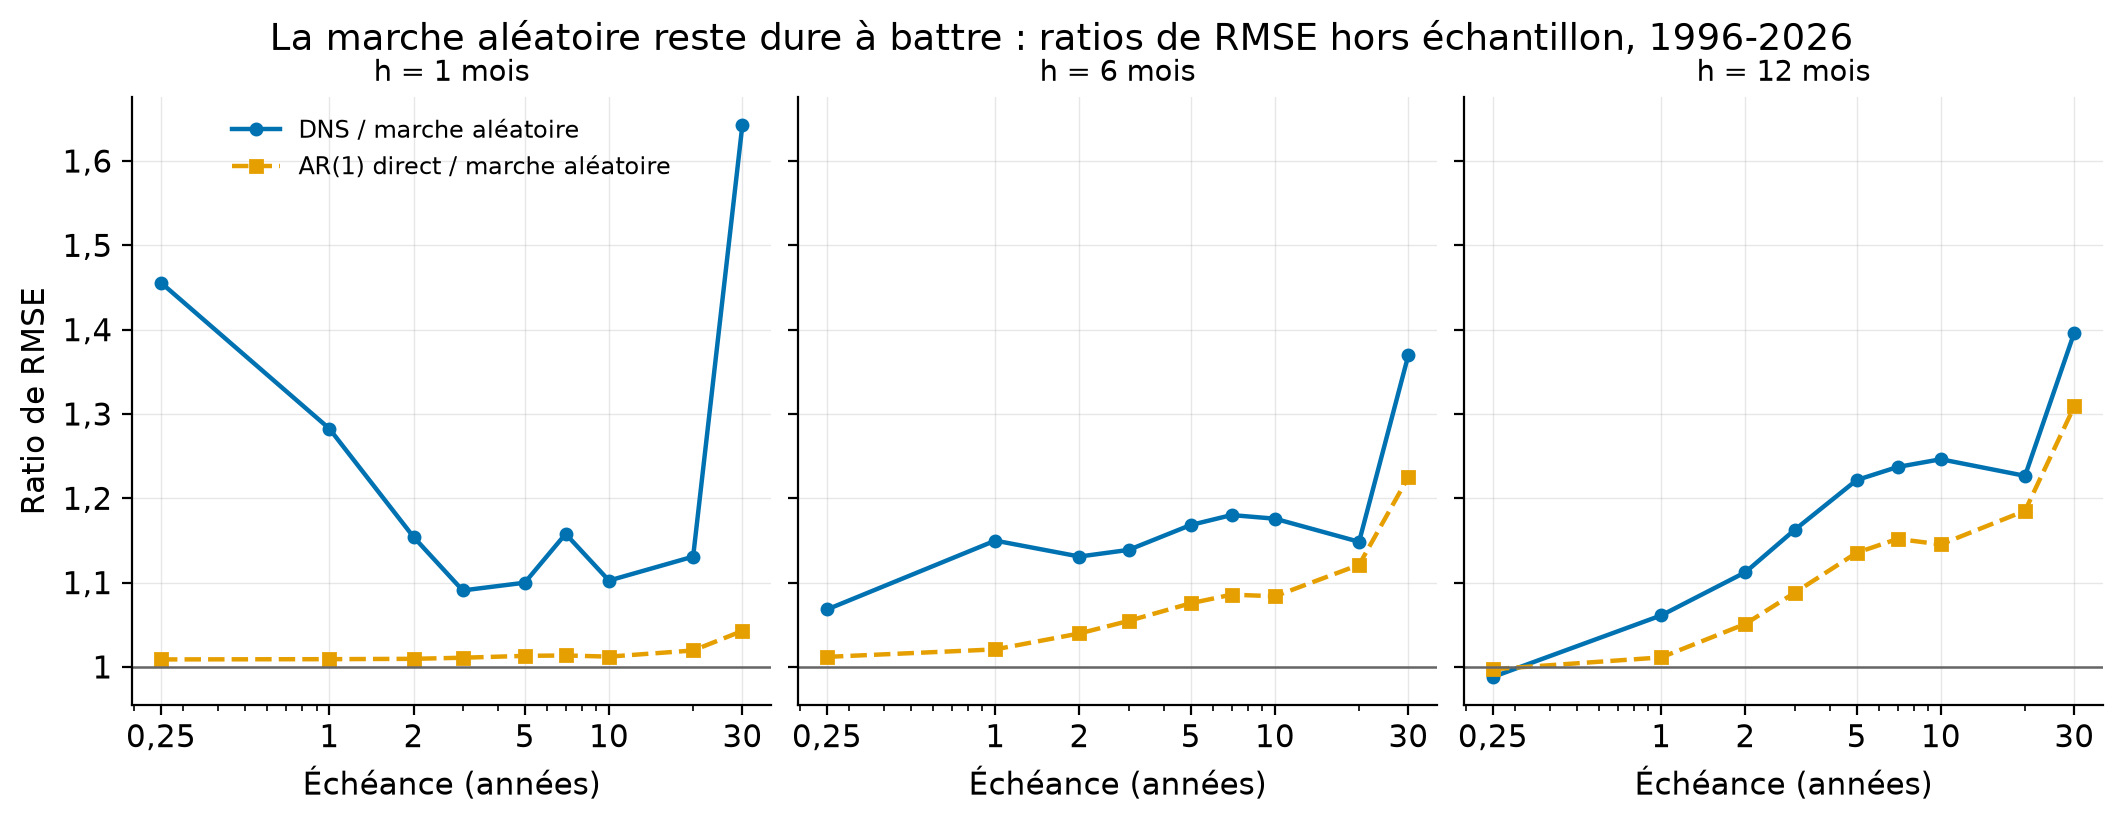
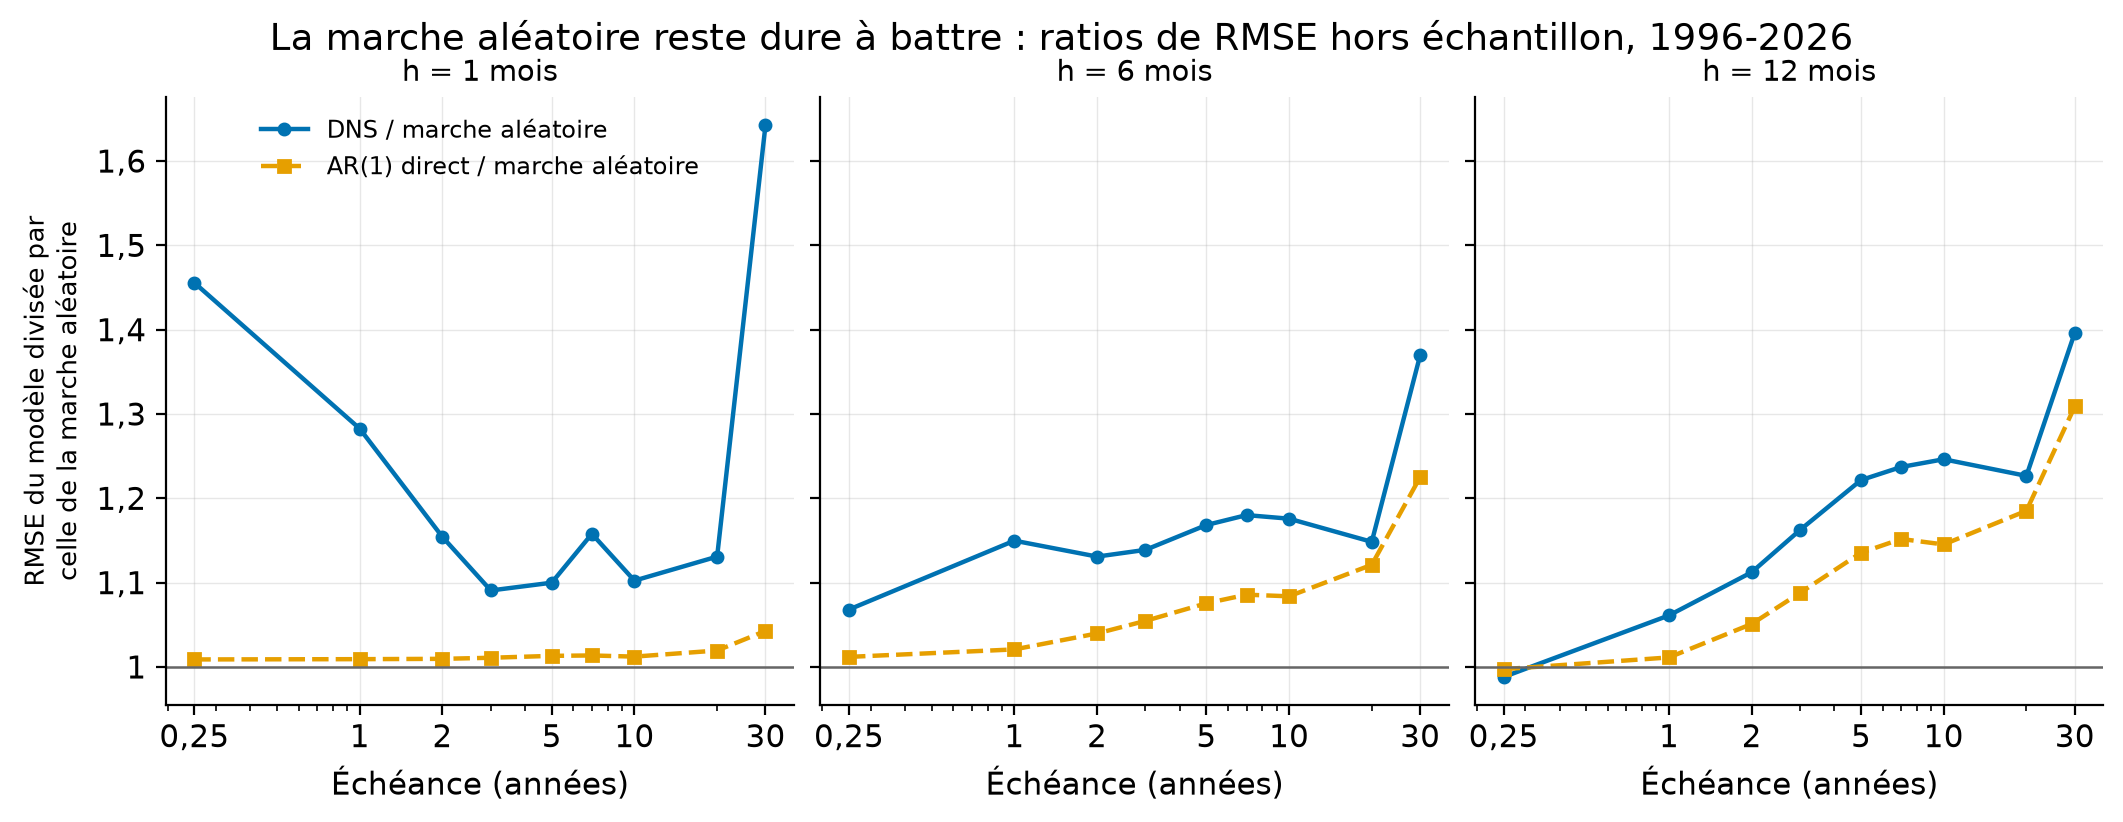
Audit : la figure h = 18 annonçait « à 12 mois »
fig_recession codait l'horizon en dur dans l'ordonnée et le sous-titre alors que la même
fonction produit les deux figures : deux courbes différentes portaient une étiquette
identique. L'horizon est un paramètre.

Le gap de revenu net d'intérêts était positif par construction : les dépôts à vue
portaient une refixation de 30 mois, la valeur de leur duration COMPORTEMENTALE, si bien
qu'aucun passif n'entrait dans la fenêtre de douze mois. delta_nii_12m prend un bêta de
dépôt déclaré et publie les trois hypothèses : +0,558 G$ à bêta nul, +0,158 à 0,5,
-0,242 à 1. Le signe tient au bêta, pas à la structure d'échéances.

Le titre des facteurs affirmait un niveau final de 3 % là où la série finit à 4,3 % : il
est déduit des données. beta 2 est le taux court MOINS le taux long, donc l'opposé de la
pente tracée plus bas dans le même dépôt : l'axe le dit. Delta-EVE devient « variation de
la valeur économique des fonds propres », les scénarios réglementaires portent leur nom
français accentué, et le ratio de RMSE dit son numérateur et son dénominateur.

diff --git a/src/ycc/figures.py b/src/ycc/figures.py
@@ -10,6 +10,12 @@ import pandas as pd
 
 OKABE_ITO = ["#0072B2", "#E69F00", "#009E73", "#D55E00", "#CC79A7", "#56B4E9", "#F0E442", "#000000"]
 
+NOMS_SCENARIOS = {
+    "parallele_hausse": "Hausse parallèle", "parallele_baisse": "Baisse parallèle",
+    "pentification": "Pentification", "aplatissement": "Aplatissement",
+    "court_hausse": "Hausse du court terme", "court_baisse": "Baisse du court terme",
+}
+
 
 def use_style():
     import matplotlib as mpl
@@ -39,15 +45,23 @@ def fig_factors(betas: pd.DataFrame, episodes, dest: Path) -> None:
     fr = use_style()
     fig, axes = plt.subplots(3, 1, figsize=(9, 7.5), sharex=True)
     ts = betas.index.to_timestamp()
-    labels = [("niveau", "Niveau (beta 1, %)"), ("pente", "Pente (beta 2, %)"),
-              ("courbure", "Courbure (beta 3, %)")]
+    # β2 charge (1 - exp(-λτ))/(λτ), qui vaut 1 à l'échéance nulle et 0 à l'infini : β2 est donc le
+    # taux court MOINS le taux long, l'opposé de la pente 10 ans moins 3 mois tracée plus bas. Le
+    # dire dans l'axe évite de lire deux figures du même dépôt avec deux conventions de signe.
+    labels = [("niveau", "Niveau β1 (%)"),
+              ("pente", "Pente β2, court moins long\n(points de pourcentage)"),
+              ("courbure", "Courbure β3\n(points de pourcentage)")]
     for ax, (col, lab), color in zip(axes, labels, OKABE_ITO, strict=False):
         ax.plot(ts, betas[col], color=color)
         ax.set_ylabel(lab, fontsize=9.5)
         ax.yaxis.set_major_formatter(fr)
         _shade(ax, episodes, betas.index)
     axes[1].axhline(0, color="0.5", linewidth=0.8)
-    axes[0].set_title("Trois nombres résument la courbe canadienne : le niveau tombe de 10 % à 3 % en quarante ans")
+    niveau = betas["niveau"]
+    axes[0].set_title(f"Trois nombres résument la courbe canadienne\nLe niveau tombe de "
+                      f"{niveau.iloc[0]:.1f} % en {betas.index[0]} à {niveau.min():.1f} % en "
+                      f"{niveau.idxmin()}, puis remonte à {niveau.iloc[-1]:.1f} %".replace(".", ","),
+                      fontsize=11)
     fig.savefig(dest)
     plt.close(fig)
 
@@ -88,14 +102,15 @@ def fig_forecast(rmse: pd.DataFrame, dest: Path) -> None:
         ax.set_title(f"h = {h} mois", fontsize=10.5)
         ax.set_xlabel("Échéance (années)")
         ax.yaxis.set_major_formatter(fr)
-    axes[0].set_ylabel("Ratio de RMSE")
+    axes[0].set_ylabel("RMSE du modèle divisée par\ncelle de la marche aléatoire", fontsize=9.5)
     axes[0].legend(fontsize=8.5, loc="upper center")
     fig.suptitle("La marche aléatoire reste dure à battre : ratios de RMSE hors échantillon, 1996-2026", y=1.04)
     fig.savefig(dest, bbox_inches="tight")
     plt.close(fig)
 
 
-def fig_recession(feats: pd.DataFrame, probs: dict[str, pd.Series], episodes, dest: Path) -> None:
+def fig_recession(feats: pd.DataFrame, probs: dict[str, pd.Series], episodes, dest: Path,
+                  horizon: int = 12) -> None:
     """En haut les pentes, en bas les probabilités hors échantillon ; 2022-23 est le test décisif."""
     fr = use_style()
     fig, (ax1, ax2) = plt.subplots(2, 1, figsize=(9.5, 6.6), sharex=True,
@@ -104,7 +119,7 @@ def fig_recession(feats: pd.DataFrame, probs: dict[str, pd.Series], episodes, de
     ax1.plot(ts, feats["pente_brute"], color=OKABE_ITO[0], label="Pente brute (10 ans - 3 mois)")
     ax1.plot(ts, feats["pente_nette"], color=OKABE_ITO[3], label="Pente nette de prime de terme")
     ax1.axhline(0, color="0.4", linewidth=0.9)
-    ax1.set_ylabel("Points de %")
+    ax1.set_ylabel("Pente (points de pourcentage)")
     ax1.yaxis.set_major_formatter(fr)
     _shade(ax1, episodes, feats.index)
     ax1.legend(fontsize=9, loc="upper right")
@@ -112,12 +127,13 @@ def fig_recession(feats: pd.DataFrame, probs: dict[str, pd.Series], episodes, de
 
     for (name, p), color in zip(probs.items(), OKABE_ITO, strict=False):
         ax2.plot(p.index.to_timestamp(), p.to_numpy(), color=color, label=name)
-    ax2.set_ylabel("Prob. de récession à 12 mois")
+    ax2.set_ylabel(f"Probabilité de récession\ndans les {horizon} mois", fontsize=9.5)
     ax2.set_ylim(0, 1)
     ax2.yaxis.set_major_formatter(fr)
     _shade(ax2, episodes, feats.index)
     ax2.legend(fontsize=9, loc="upper right")
-    ax2.set_title("Probit estimé en fenêtre expansive, cible jamais observée avant t + 12", fontsize=10.5)
+    ax2.set_title(f"Probit estimé en fenêtre expansive, cible jamais observée avant t + {horizon}",
+                  fontsize=10.5)
     fig.savefig(dest)
     plt.close(fig)
 
@@ -131,7 +147,9 @@ def fig_alm(delta: pd.DataFrame, dest: Path) -> None:
     for i, m in enumerate(mesure):
         if m:
             colors[i] = OKABE_ITO[0]
-    noms = delta["scenario"].str.replace("_", " ")
+    # les clés internes (« parallele_hausse ») restent celles des tables et des tests ; la figure,
+    # elle, porte le nom réglementaire écrit en toutes lettres
+    noms = delta["scenario"].map(NOMS_SCENARIOS).fillna(delta["scenario"].str.replace("_", " "))
     ax.barh(noms, delta["delta_eve"], color=colors, height=0.62)
     for nom, v in zip(noms, delta["delta_eve"], strict=True):
         ax.text(v + (0.1 if v >= 0 else -0.1), nom,
@@ -140,7 +158,8 @@ def fig_alm(delta: pd.DataFrame, dest: Path) -> None:
     lim = float(delta["delta_eve"].abs().max()) * 1.22
     ax.set_xlim(-lim, lim)
     ax.axvline(0, color="0.3", linewidth=0.9)
-    ax.set_xlabel("Delta-EVE (milliards de dollars, bilan stylisé de 100)")
+    ax.set_xlabel("Variation de la valeur économique des fonds propres\n"
+                  "(milliards de dollars ; bilan stylisé de 100 G$ d'actif)")
     ax.xaxis.set_major_formatter(fr)
     ax.set_title("2022 dépasse le gabarit court en ampleur, mais sa forme d'aplatissement amortit la perte")
     fig.savefig(dest, bbox_inches="tight")

diff --git a/src/ycc/cli.py b/src/ycc/cli.py
@@ -138,7 +138,7 @@ def recession(out: Path = Path("results"), horizon: int = 12) -> None:
     labels = {"pente_brute": "pente brute", "pente_nette": "pente nette de prime",
               "ecart_forward": "écart forward"}
     figures.fig_recession(feats, {labels[k]: v for k, v in probs.items()}, eps,
-                          figs / f"probit_recession{suffix}.png")
+                          figs / f"probit_recession{suffix}.png", horizon=horizon)
     typer.echo(table.round(3).to_string(index=False))
 
 
@@ -154,7 +154,7 @@ def alm(out: Path = Path("results")) -> None:
     last = curve.iloc[-1]
     bilan = mod.bilan_stylise()
     move_2022 = curve.loc[:"2022-12-31"].iloc[-1] - curve.loc[:"2021-12-31"].iloc[-1]
-    extra = {"2022 mesuré (déc. 2021 -> déc. 2022)": last + move_2022}
+    extra = {"2022 mesuré (déc. 2021 à déc. 2022)": last + move_2022}
     delta = mod.delta_eve_scenarios(last, bilan, extra=extra)
     tables, figs = out / "tables", out / "figures"
     tables.mkdir(parents=True, exist_ok=True)
@@ -162,8 +162,10 @@ def alm(out: Path = Path("results")) -> None:
     delta.round(3).to_csv(tables / "delta_eve.csv", index=False)
     krd = mod.key_rate_durations(last, coupon_pct=4.0, maturity=10.0)
     krd.round(4).to_csv(tables / "krd_obligation_10ans.csv")
-    nii = pd.DataFrame([{"choc_pp": s, "delta_nii_12m": mod.delta_nii_12m(bilan, s)}
-                        for s in (+2.0, -2.0)])
+    # le signe du gap tient au bêta de dépôt : les trois hypothèses sont publiées côte à côte
+    nii = pd.DataFrame([{"choc_pp": s, "beta_depot": b,
+                         "delta_nii_12m": mod.delta_nii_12m(bilan, s, beta_depot=b)}
+                        for s in (+2.0, -2.0) for b in (0.0, 0.5, 1.0)])
     nii.round(3).to_csv(tables / "delta_nii.csv", index=False)
     figures.fig_alm(delta, figs / "delta_eve.png")
     excel.build_workbook(last, str(curve.index[-1].date()), Path("reports/calculs_obligataires.xlsx"))

diff --git a/src/ycc/alm.py b/src/ycc/alm.py
@@ -135,14 +135,26 @@ def delta_eve_scenarios(curve_row: pd.Series, bilan: list[Poste],
     return pd.DataFrame(rows)
 
 
-def delta_nii_12m(bilan: list[Poste], shock_pp: float) -> float:
+def delta_nii_12m(bilan: list[Poste], shock_pp: float, beta_depot: float = 0.5) -> float:
     """Le revenu net d'intérêts à 12 mois sous un choc parallèle : gap de refixation (G$).
 
     Chaque poste qui se refixe au mois m subit le choc pendant (12 - m)/12 de l'année ;
     un passif qui se refixe coûte plus cher, d'où le signe du montant.
+
+    ``beta_depot`` est la part du choc de taux répercutée sur le coût des dépôts à vue, un précepte
+    déclaré (Bâle emploie 0,5 comme ordre de grandeur usuel pour un dépôt de détail). Le paramètre
+    est décisif : le bilan précepte donne aux dépôts à vue une duration COMPORTEMENTALE de 2,5 ans
+    pour l'actualisation, mais leur taux, lui, se révise en continu. Les confondre revient à poser
+    un bêta nul, c'est-à-dire à supposer qu'une hausse de 200 pb ne coûte rien au passif pendant un
+    an, et le gap est alors positif par construction. Mesuré sur le bilan du dépôt sous +200 pb
+    (results/tables/delta_nii.csv) : +0,558 G$ à bêta nul, +0,158 G$ à bêta 0,5, -0,242 G$ à bêta 1.
+    Convention : le dépôt à vue, dont le taux se révise en continu, porte le choc sur les douze mois.
     """
     total = 0.0
     for p in bilan:
-        if p.refixation_mois <= 12:
+        depot_a_vue = p.montant < 0 and "vue" in p.nom
+        if depot_a_vue:
+            total += p.montant * (shock_pp / 100.0) * beta_depot
+        elif p.refixation_mois <= 12:
             total += p.montant * (shock_pp / 100.0) * (12.0 - p.refixation_mois) / 12.0
     return float(total)

diff --git a/tests/test_ycc.py b/tests/test_ycc.py
@@ -145,3 +145,22 @@ def test_delta_nii_hand_case():
              Poste("passif fixe", -100.0, 0.0, 5.0, 60.0)]
     # +200 pb : l'actif se refixe au mois 3, 9 mois de portage : 100 * 2 % * 9/12 = 1,5 G$
     assert delta_nii_12m(bilan, 2.0) == pytest.approx(1.5)
+
+
+def test_delta_nii_depend_du_beta_de_depot():
+    # le poste de dépôts à vue porte une duration COMPORTEMENTALE de 2,5 ans pour l'actualisation ;
+    # son taux, lui, se révise en continu. Le confondre avec une refixation à 30 mois revient à
+    # poser un bêta nul, et le gap devient positif par construction.
+    bilan = [Poste("actif variable", 100.0, 0.0, 0.25, 3.0),
+             Poste("dépôts à vue (duration comportementale)", -100.0, 0.0, 2.5, 30.0)]
+    assert delta_nii_12m(bilan, 2.0, beta_depot=0.0) == pytest.approx(1.5)
+    assert delta_nii_12m(bilan, 2.0, beta_depot=0.5) == pytest.approx(1.5 - 1.0)
+    assert delta_nii_12m(bilan, 2.0, beta_depot=1.0) == pytest.approx(1.5 - 2.0)
+
+
+def test_delta_nii_du_bilan_precepte_change_de_signe_avec_le_beta():
+    from ycc.alm import bilan_stylise
+
+    b = bilan_stylise()
+    assert delta_nii_12m(b, 2.0, beta_depot=0.0) > 0.0
+    assert delta_nii_12m(b, 2.0, beta_depot=1.0) < 0.0

diff --git a/README.md b/README.md
@@ -226,9 +226,13 @@ bilan précepte, et c'est déclaré ; ce qui est robuste, c'est que les deux cho
 montent le long bout font perte, et les deux qui l'abaissent font gain. Et 2022, pourtant
 plus violent que tout gabarit au court terme (412 pb contre 275), coûte un tiers de moins
 que le pire scénario : c'était un aplatissement, et l'aplatissement est le scénario ami
-de ce bilan. Le revenu net d'intérêts à 12 mois
-bouge de +0,56 G$ sous +200 pb : le gap de refixation est positif, les actifs se
-refixent plus vite que les passifs. La somme des durations par taux clés de l'obligation
+de ce bilan. Le revenu net d'intérêts à 12 mois sous +200 pb ne dépend pas d'abord de la
+structure d'échéances mais du bêta de dépôt, la part du choc répercutée sur le coût des
+dépôts à vue : il vaut **+0,558 G$ à bêta nul, +0,158 G$ à bêta 0,5 et −0,242 G$ à bêta 1**
+(mesuré, `results/tables/delta_nii.csv`, bilan précepte). L'audit du 2026-08-29 a montré
+que la première version confondait la duration comportementale des dépôts, 2,5 ans, avec
+leur date de refixation : aucun passif n'entrait alors dans la fenêtre de douze mois et le
+gap était positif par construction. La somme des durations par taux clés de l'obligation
 10 ans (8,34) retrouve sa duration totale (test).
 
 ![Delta-EVE](results/figures/delta_eve.png)
